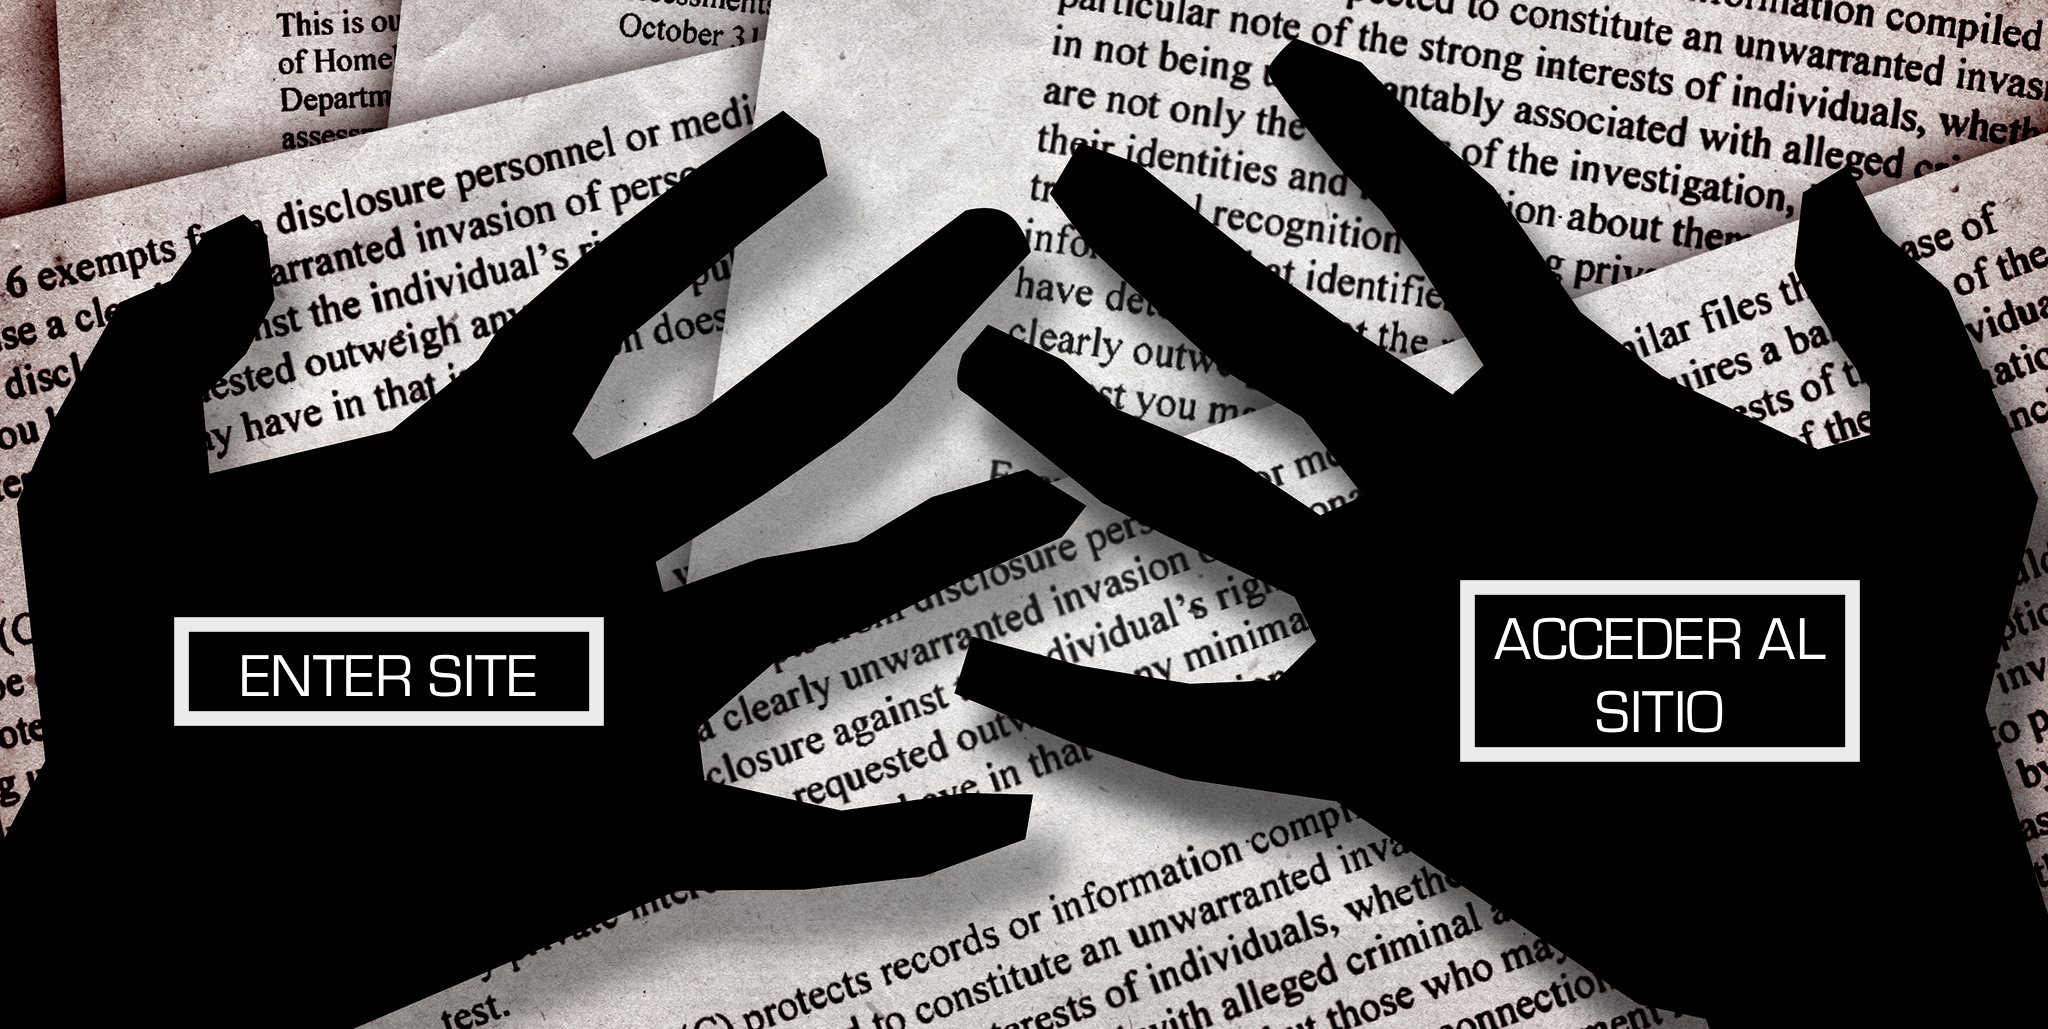
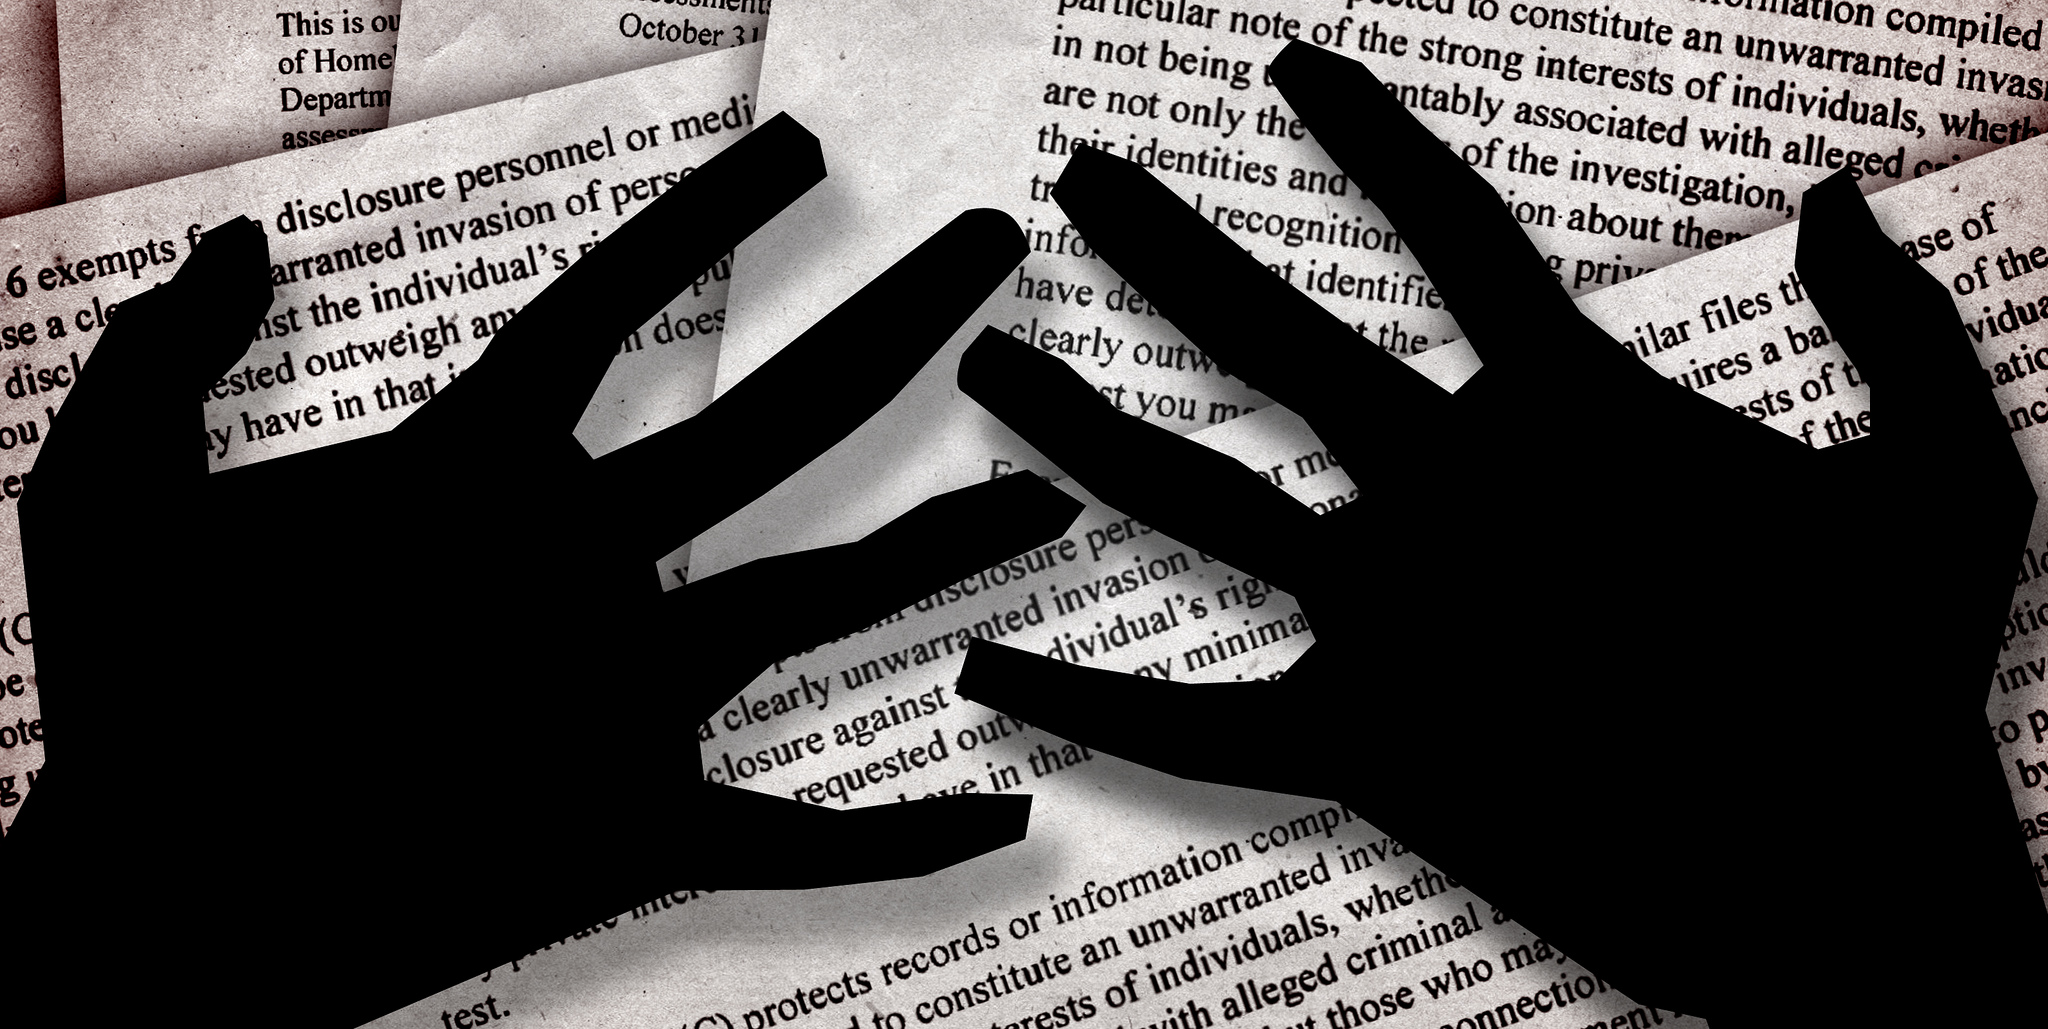
changed index jpg, csv, margins on index

Changed region(s): [[0.6875, 0.5598, 0.9062, 0.7464], [0.0625, 0.5909, 0.3125, 0.7153]]

diff --git a/app/templates/index.html b/app/templates/index.html
@@ -1,14 +1,31 @@
 {% extends "appbuilder/base.html" %}
 {% block content %}
+<style>
+.mainthing{background:url("static/img/entersite.jpg") 50% 50% no-repeat; height:500px; width: 970px; margin-left:auto; margin-right:auto; background-size: contain;}
+.mainthing a{display:block; width:50%; height:100%; float:left;}
+.mainthing b{display:block; text-align: center; font-family: Georgia; color:#fff; border:5px solid #fff; width:45%; margin-left:auto; margin-right:auto; margin-top:60%;}
+.mainthing a:hover{text-decoration: none}
+.mainthing a:hover b{border-color:#ff0; color:#ff0}
+@media screen and (max-width: 1200px) {
+
+.mainthing{height:300px; width:700px;}
+
+}
+@media screen and (max-width: 480px) {
+
+.mainthing{height:200px; width:450px;}
+.mainthing a{float:none;}
+
+}
+</style>
 <div class="jumbotron">
   <div class="container">
     <h1>{{_("Freedom of Information is a right")}}</h1>
     <p>{{_("Civil society organizations in Argentina are challenging the status quo through record requests")}}</p>
-    <p>
-<a href="/articlemasterviewen/list/">
-<img border="0" alt="Enter site" src="static/img/entersite.jpg" width="970" height="500">
-</a>
-</p>
+    
+<div class="mainthing"><a href="/articlemasterviewen/list/"><b>Enter Site</b></a>
+	<a href="/articlemasterviewes/list/" lang="es"><b>Acceder al sitio</b></a></div>
+<br style="clear:left; float:none" />
   </div>
 </div>
 {% endblock %}
